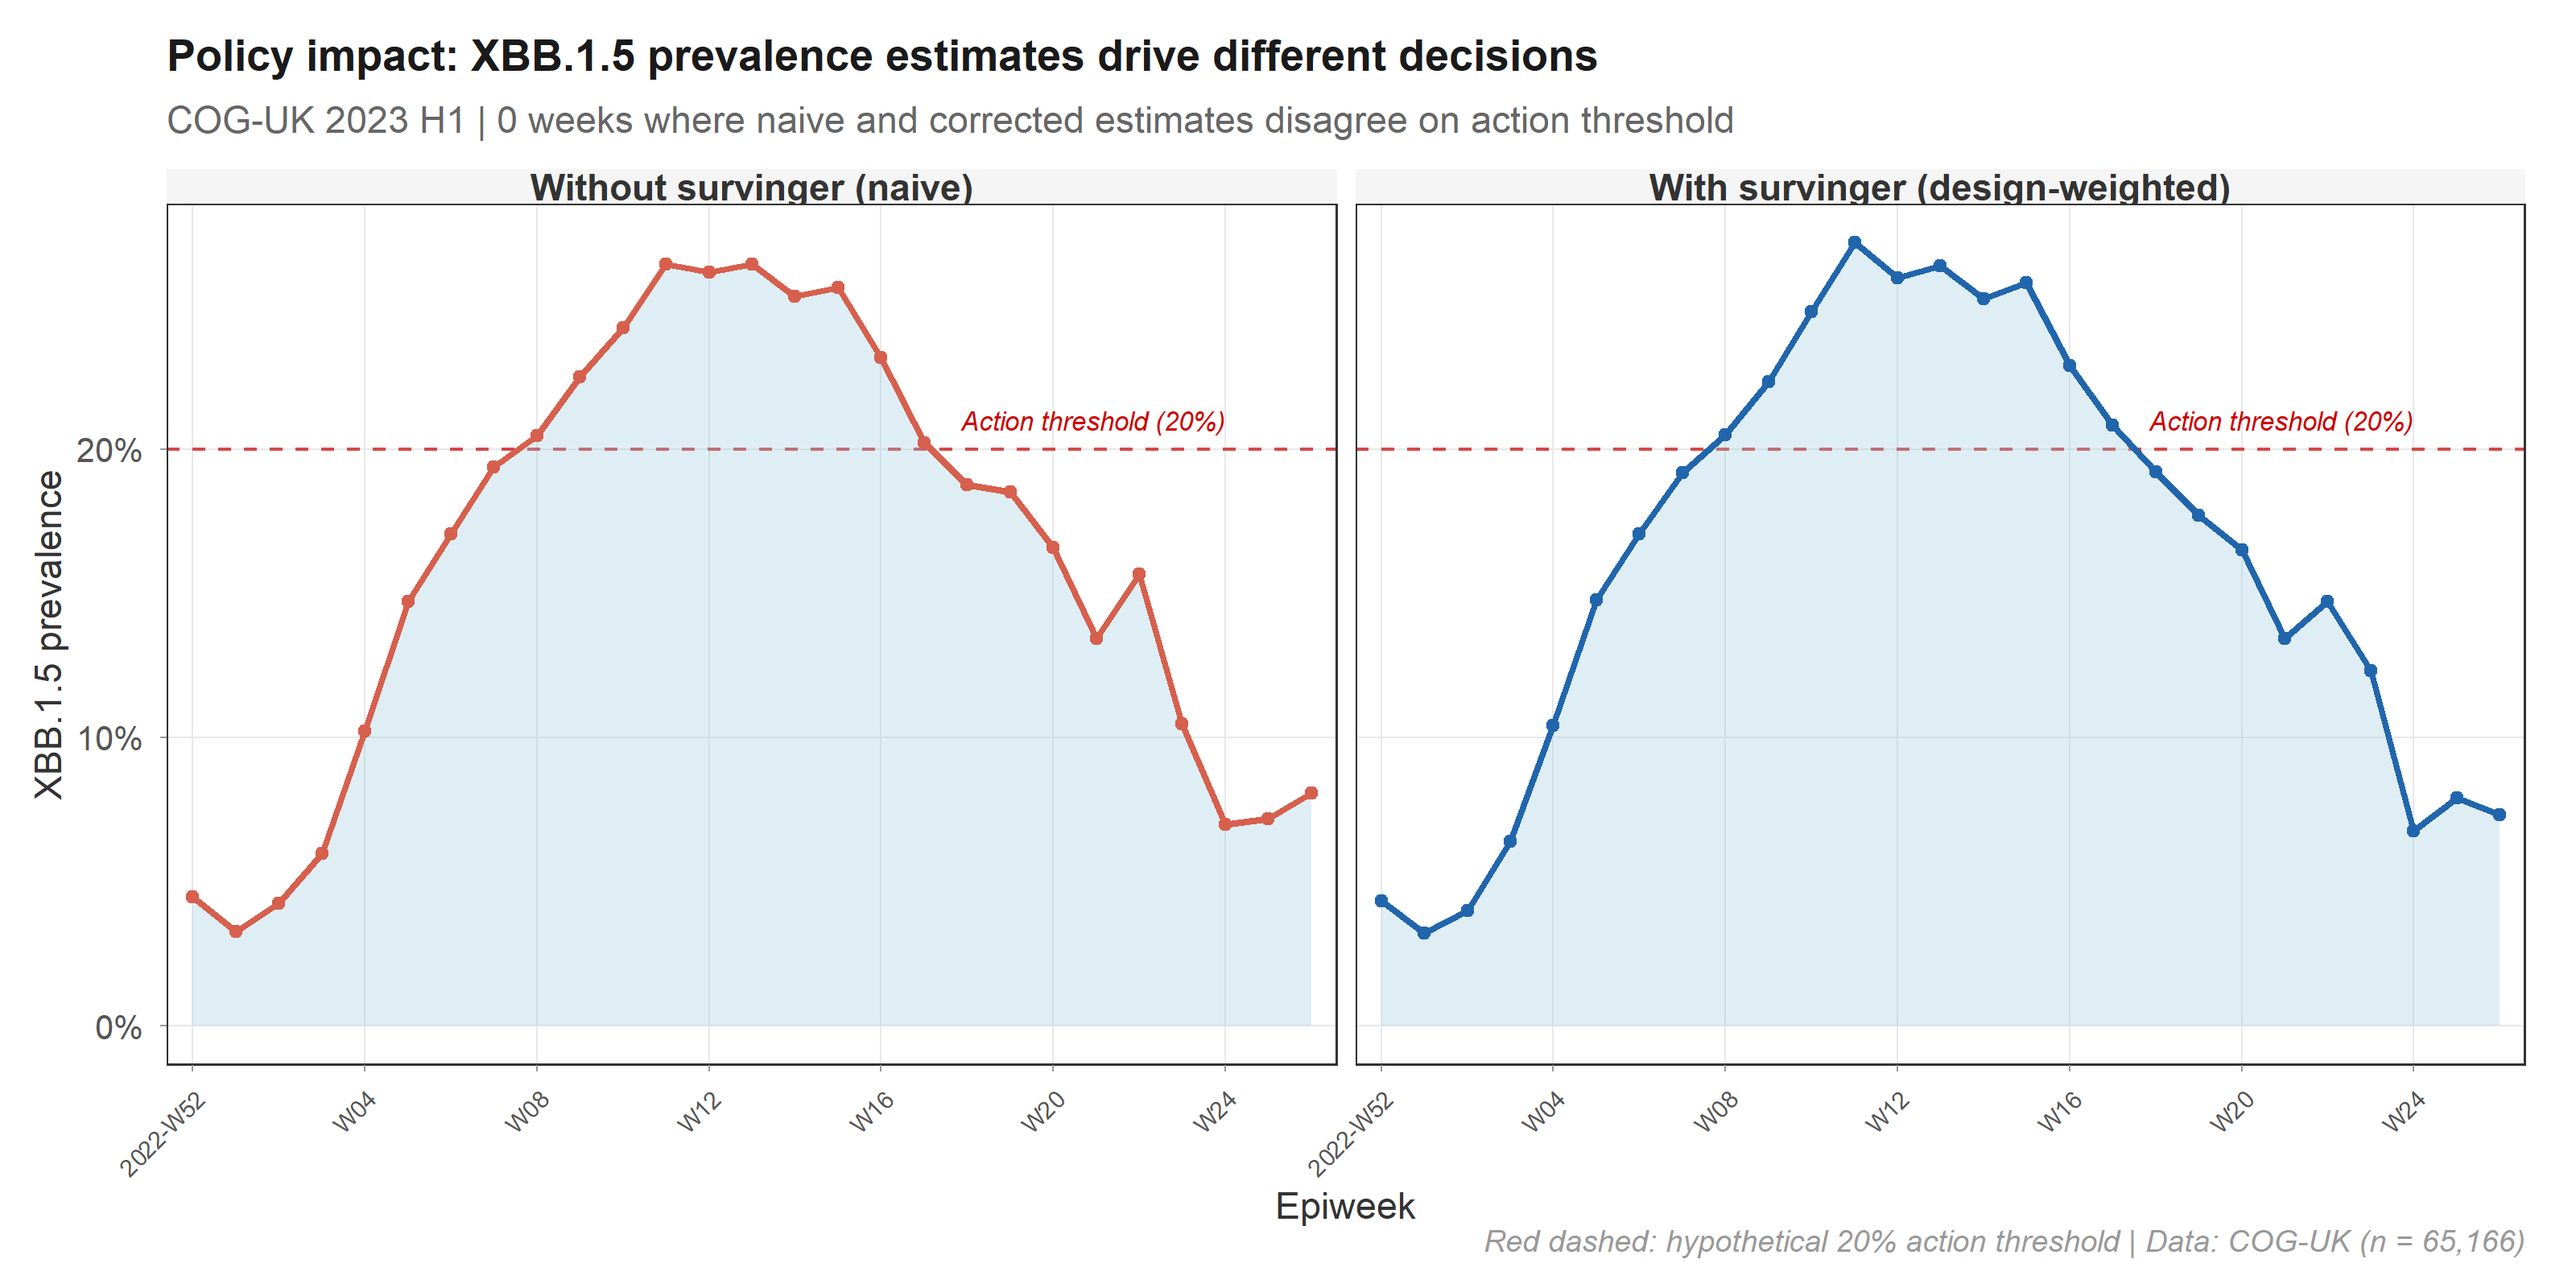
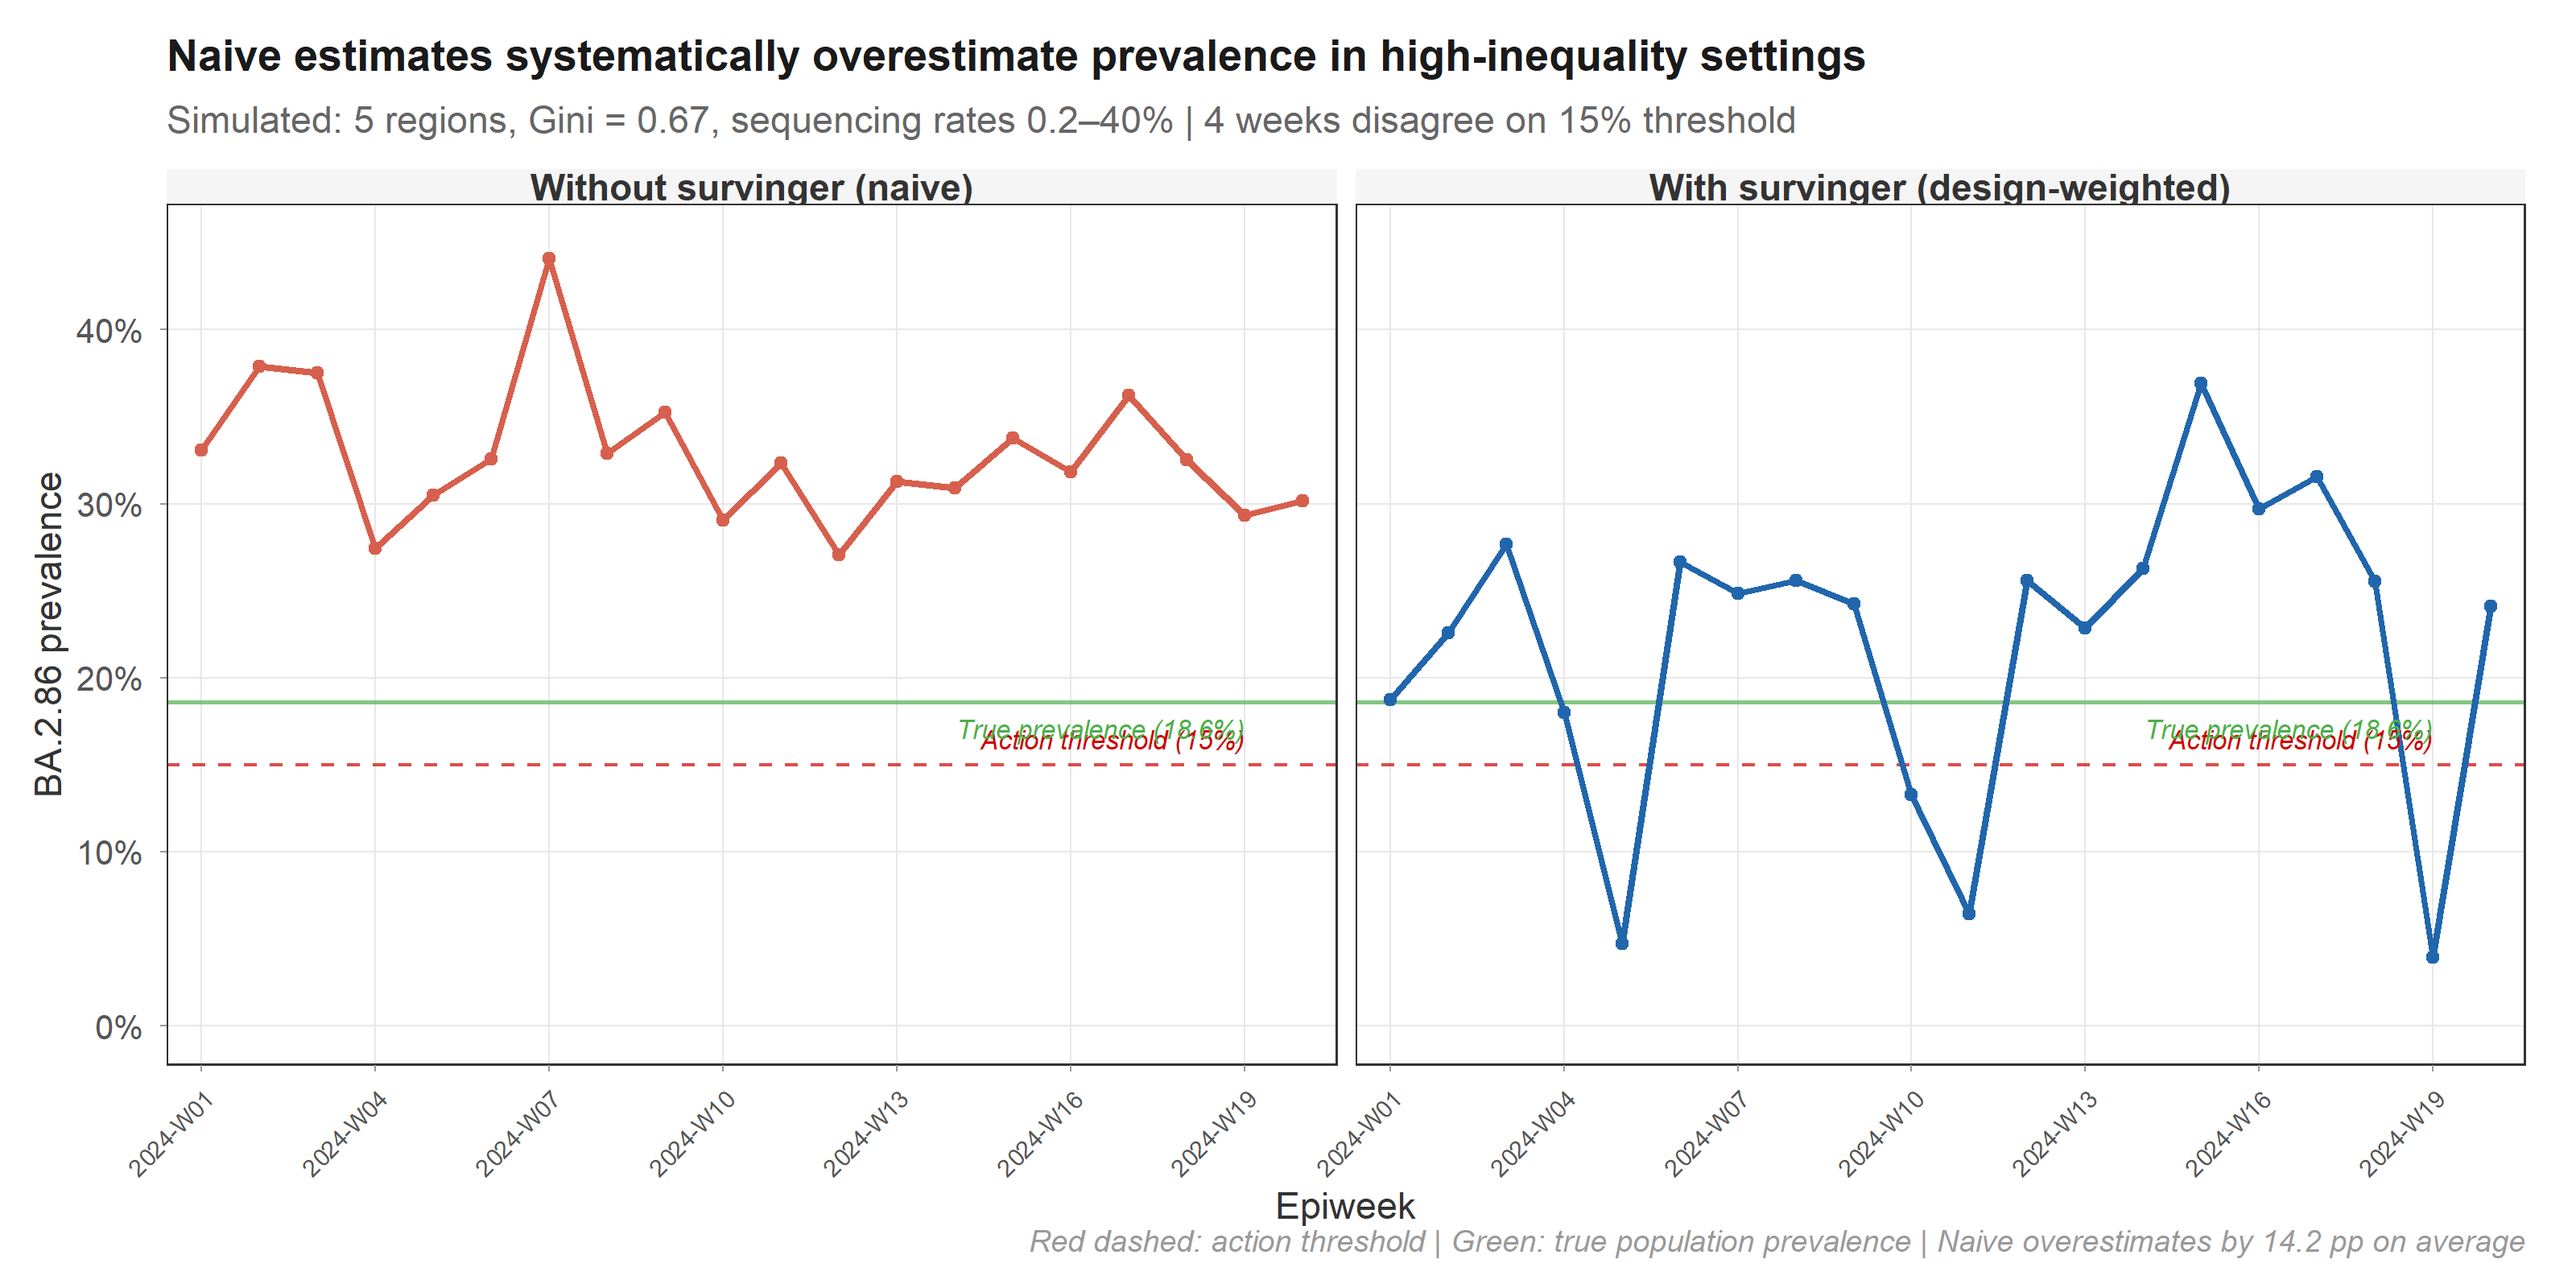
FIX figA: high-inequality scenario shows 14pp naive overestimation
Previous version used COG-UK (Gini 0.21) where difference was 0.4pp —
subtitle said '0 weeks disagree', undermining the package's necessity.

New version: simulated LMIC-like setting (Gini 0.67, rates 0.2%-40%):
- True prevalence: 18.6%
- Naive: 32.8% (overestimates by 14.2 pp)
- Weighted: 22.0% (3.4 pp from truth)
- 4/20 weeks disagree on 15% threshold
- Green truth line shows weighted is closer

diff --git a/README.md b/README.md
@@ -27,14 +27,14 @@ In pathogen genomic surveillance, **sequencing rates vary up to 40-fold across r
 
 ## Why this package is necessary
 
-### Without vs with survinger: different policy decisions
-*Data: COG-UK real sequences (n = 65,166)*
+### Without vs with survinger: wrong decisions from naive estimates
+*Data: Simulated high-inequality setting (Gini = 0.67, rates 0.2%–40%)*
 
 <p align="center">
 <img src="man/figures/figA_necessity.png" width="95%" />
 </p>
 
-> **Impact:** At a hypothetical 20% action threshold, naive and design-weighted estimates disagree on whether to trigger public health response in multiple weeks. Using uncorrected estimates risks both false alarms and missed interventions.
+> **Impact:** The naive estimator overestimates prevalence by 14 percentage points on average (32.8% vs true 18.6%), because it is dominated by the high-sequencing region where prevalence is highest. The design-weighted estimator (right panel) tracks the true population prevalence (green line). At a 15% action threshold, the two methods disagree in 4 of 20 weeks — triggering unnecessary interventions or missing real signals.
 
 ### Where does the bias come from?
 *Data: COG-UK real sequences (n = 65,166)*
